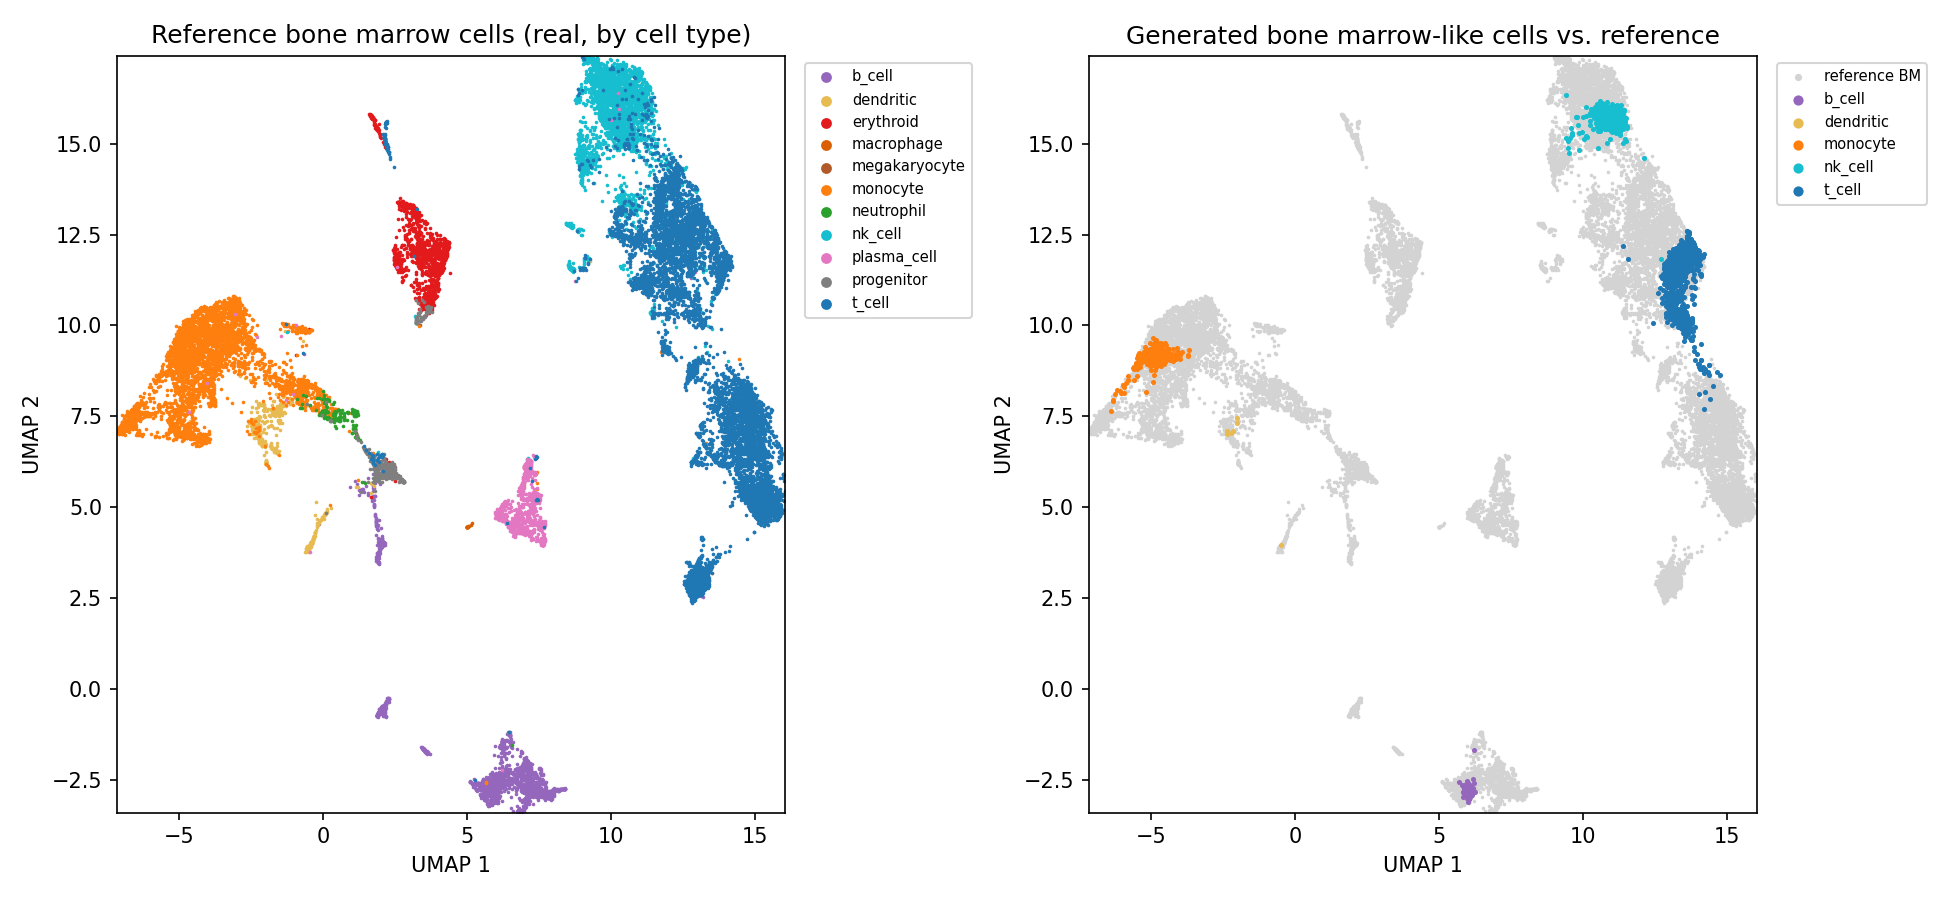
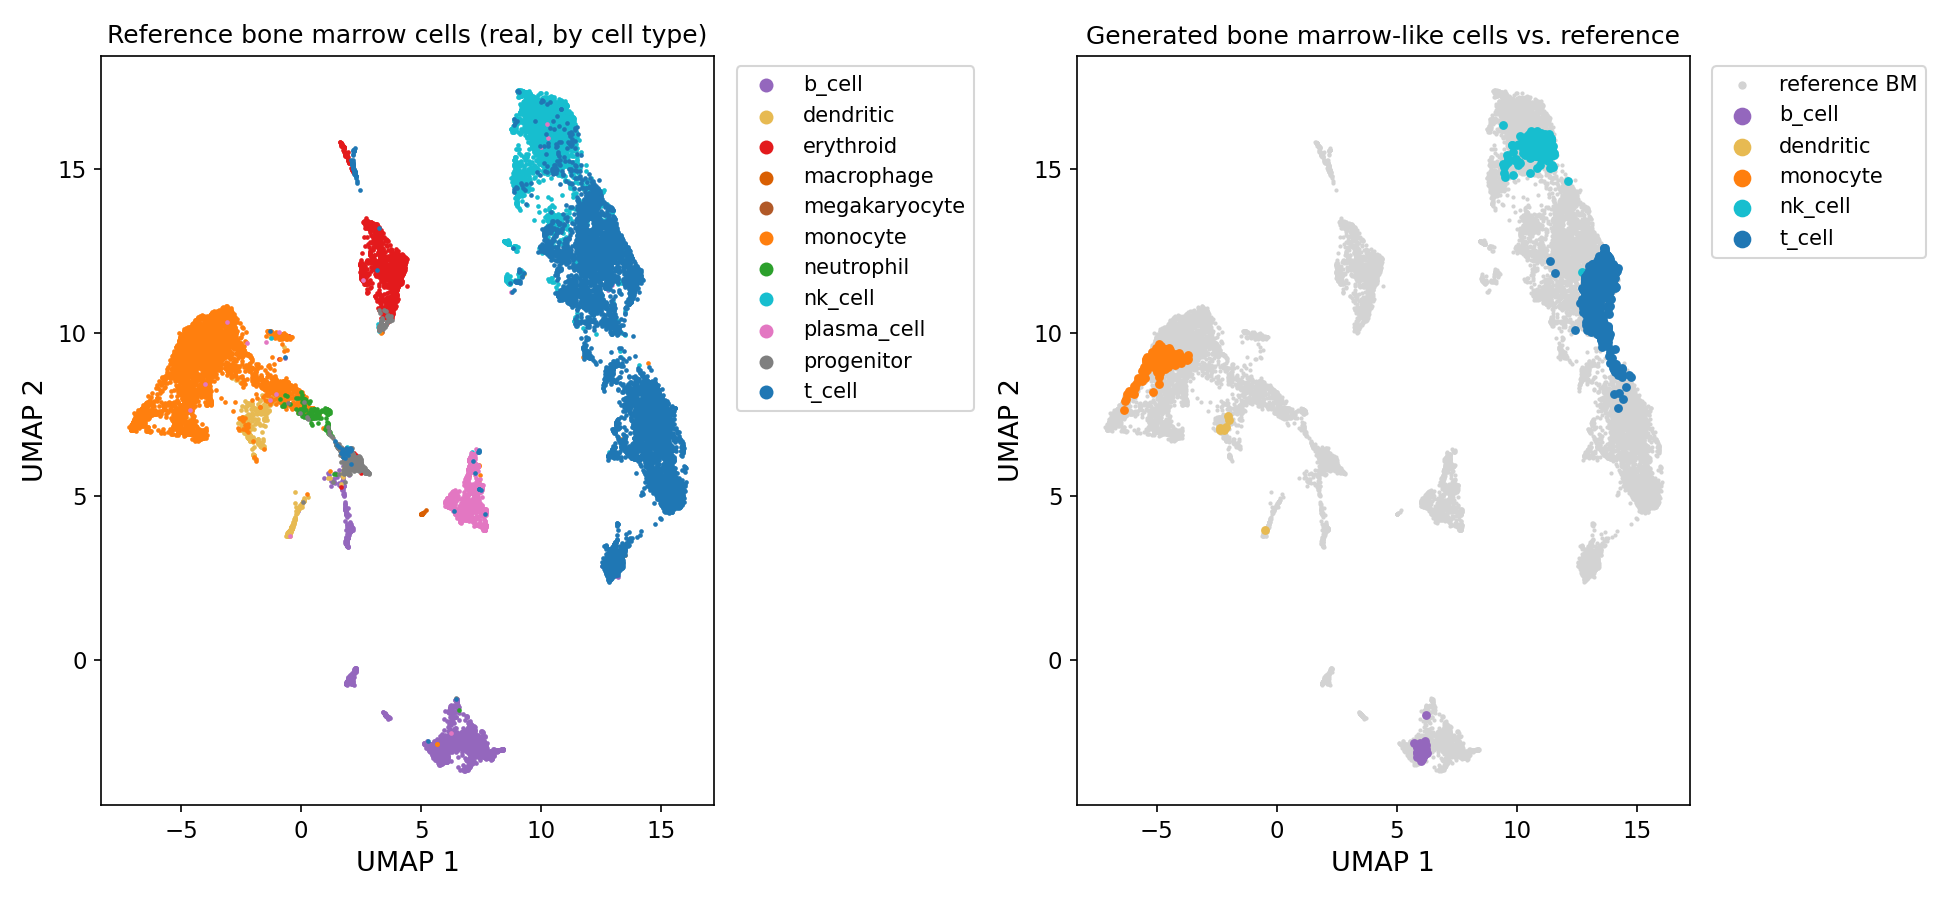
Add UMAP plot margin, increase marker sizes and font sizes for readability

diff --git a/prism/_report.py b/prism/_report.py
@@ -97,10 +97,17 @@ def fit_reference_umap(
     reducer = umap.UMAP(random_state=seed)
     coords = reducer.fit_transform(Z_ref.astype(np.float32))
 
+    # 5% margin on each side so extreme points don't sit flush against the
+    # plot border -- pure padding, doesn't affect the UMAP layout itself.
+    x_min, x_max = coords[:, 0].min(), coords[:, 0].max()
+    y_min, y_max = coords[:, 1].min(), coords[:, 1].max()
+    x_pad = (x_max - x_min) * 0.05
+    y_pad = (y_max - y_min) * 0.05
+
     return ReferenceUMAP(
         reducer=reducer, coords=coords, celltype=ct_ref,
-        xlim=(coords[:, 0].min(), coords[:, 0].max()),
-        ylim=(coords[:, 1].min(), coords[:, 1].max()),
+        xlim=(x_min - x_pad, x_max + x_pad),
+        ylim=(y_min - y_pad, y_max + y_pad),
     )
 
 
@@ -140,25 +147,27 @@ def plot_umap_overlay(
         ax_ref = axes[0]
         for ct_name in sorted(set(ref_umap.celltype.tolist())):
             m = ref_umap.celltype == ct_name
-            ax_ref.scatter(ref_umap.coords[m, 0], ref_umap.coords[m, 1], s=3, c=_color_for(ct_name), label=ct_name, linewidths=0)
+            ax_ref.scatter(ref_umap.coords[m, 0], ref_umap.coords[m, 1], s=5, c=_color_for(ct_name), label=ct_name, linewidths=0)
         ax_ref.set_xlim(*ref_umap.xlim)
         ax_ref.set_ylim(*ref_umap.ylim)
-        ax_ref.set_xlabel("UMAP 1")
-        ax_ref.set_ylabel("UMAP 2")
+        ax_ref.set_xlabel("UMAP 1", fontsize=13)
+        ax_ref.set_ylabel("UMAP 2", fontsize=13)
+        ax_ref.tick_params(axis="both", labelsize=11)
         ax_ref.set_title("Reference bone marrow cells (real, by cell type)")
-        ax_ref.legend(markerscale=3, fontsize=7, bbox_to_anchor=(1.02, 1), loc="upper left")
+        ax_ref.legend(markerscale=3, fontsize=10, bbox_to_anchor=(1.02, 1), loc="upper left")
 
     ax_overlay = axes[-1]
-    ax_overlay.scatter(ref_umap.coords[:, 0], ref_umap.coords[:, 1], s=3, c="lightgrey", label="reference BM", linewidths=0)
+    ax_overlay.scatter(ref_umap.coords[:, 0], ref_umap.coords[:, 1], s=4, c="lightgrey", label="reference BM", linewidths=0)
     for ct_name in sorted(set(cell_type_generated.tolist())):
         m = cell_type_generated == ct_name
-        ax_overlay.scatter(gen_coords[m, 0], gen_coords[m, 1], s=6, c=_color_for(ct_name), label=ct_name, linewidths=0)
+        ax_overlay.scatter(gen_coords[m, 0], gen_coords[m, 1], s=18, c=_color_for(ct_name), label=ct_name, linewidths=0)
     ax_overlay.set_xlim(*ref_umap.xlim)
     ax_overlay.set_ylim(*ref_umap.ylim)
-    ax_overlay.set_xlabel("UMAP 1")
-    ax_overlay.set_ylabel("UMAP 2")
+    ax_overlay.set_xlabel("UMAP 1", fontsize=13)
+    ax_overlay.set_ylabel("UMAP 2", fontsize=13)
+    ax_overlay.tick_params(axis="both", labelsize=11)
     ax_overlay.set_title("Generated bone marrow-like cells vs. reference")
-    ax_overlay.legend(markerscale=2, fontsize=7, bbox_to_anchor=(1.02, 1), loc="upper left")
+    ax_overlay.legend(markerscale=2, fontsize=10, bbox_to_anchor=(1.02, 1), loc="upper left")
 
     fig.tight_layout()
     os.makedirs(os.path.dirname(out_path) or ".", exist_ok=True)
